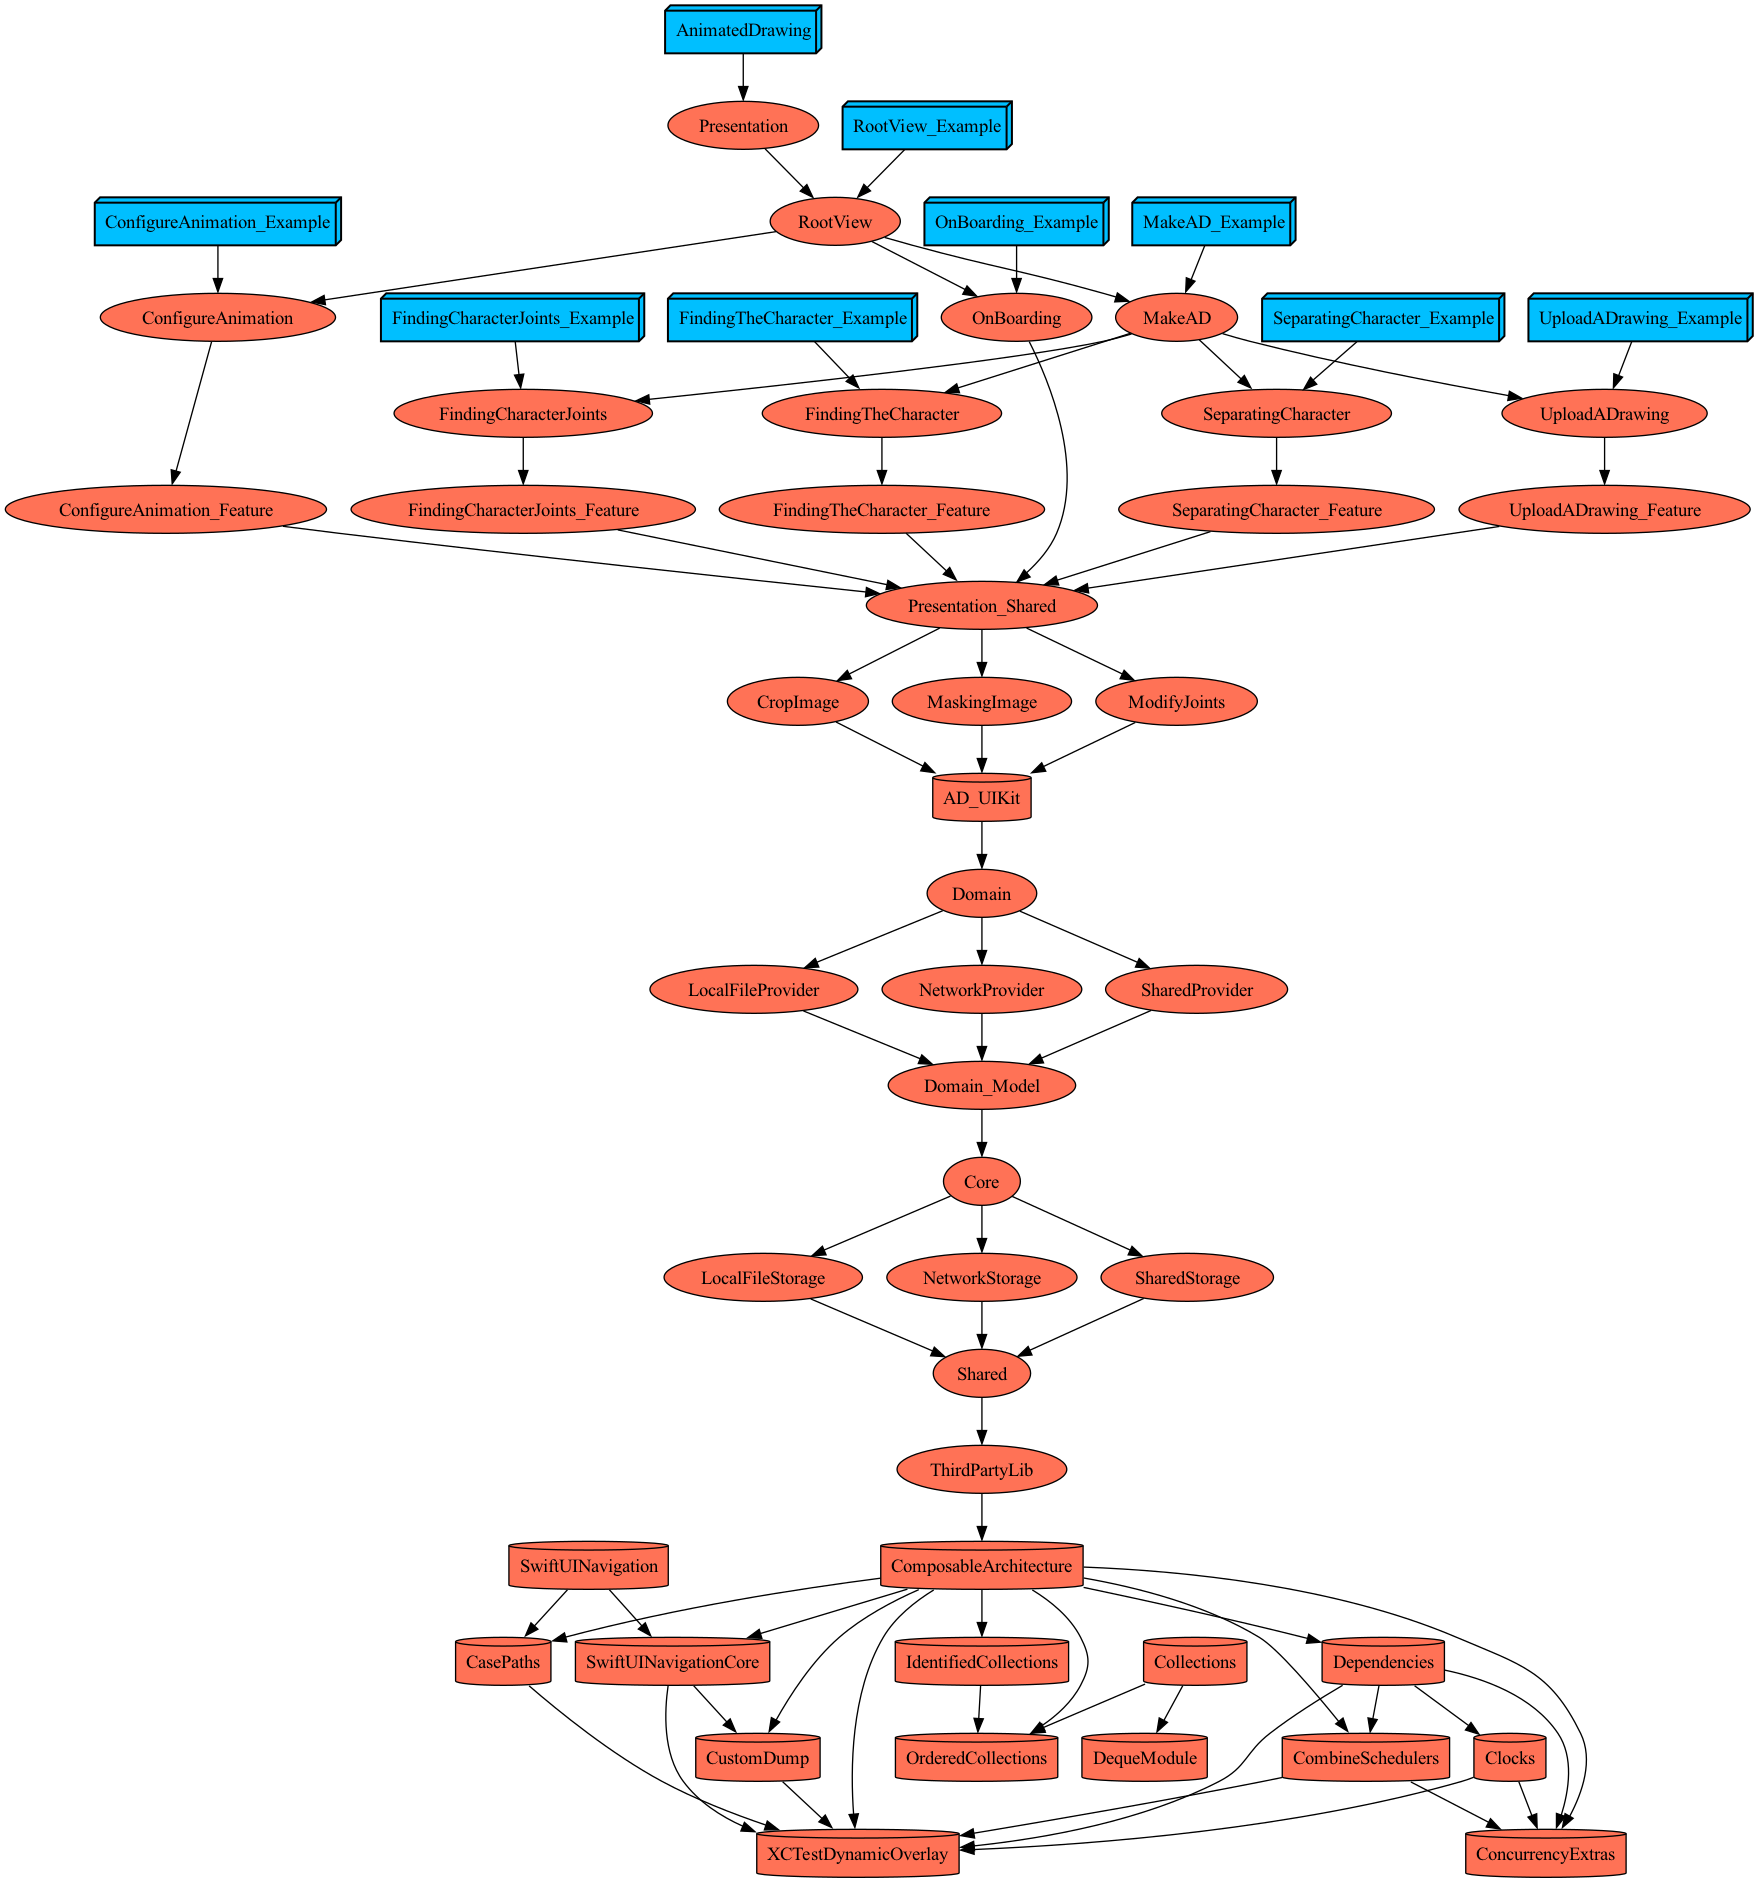
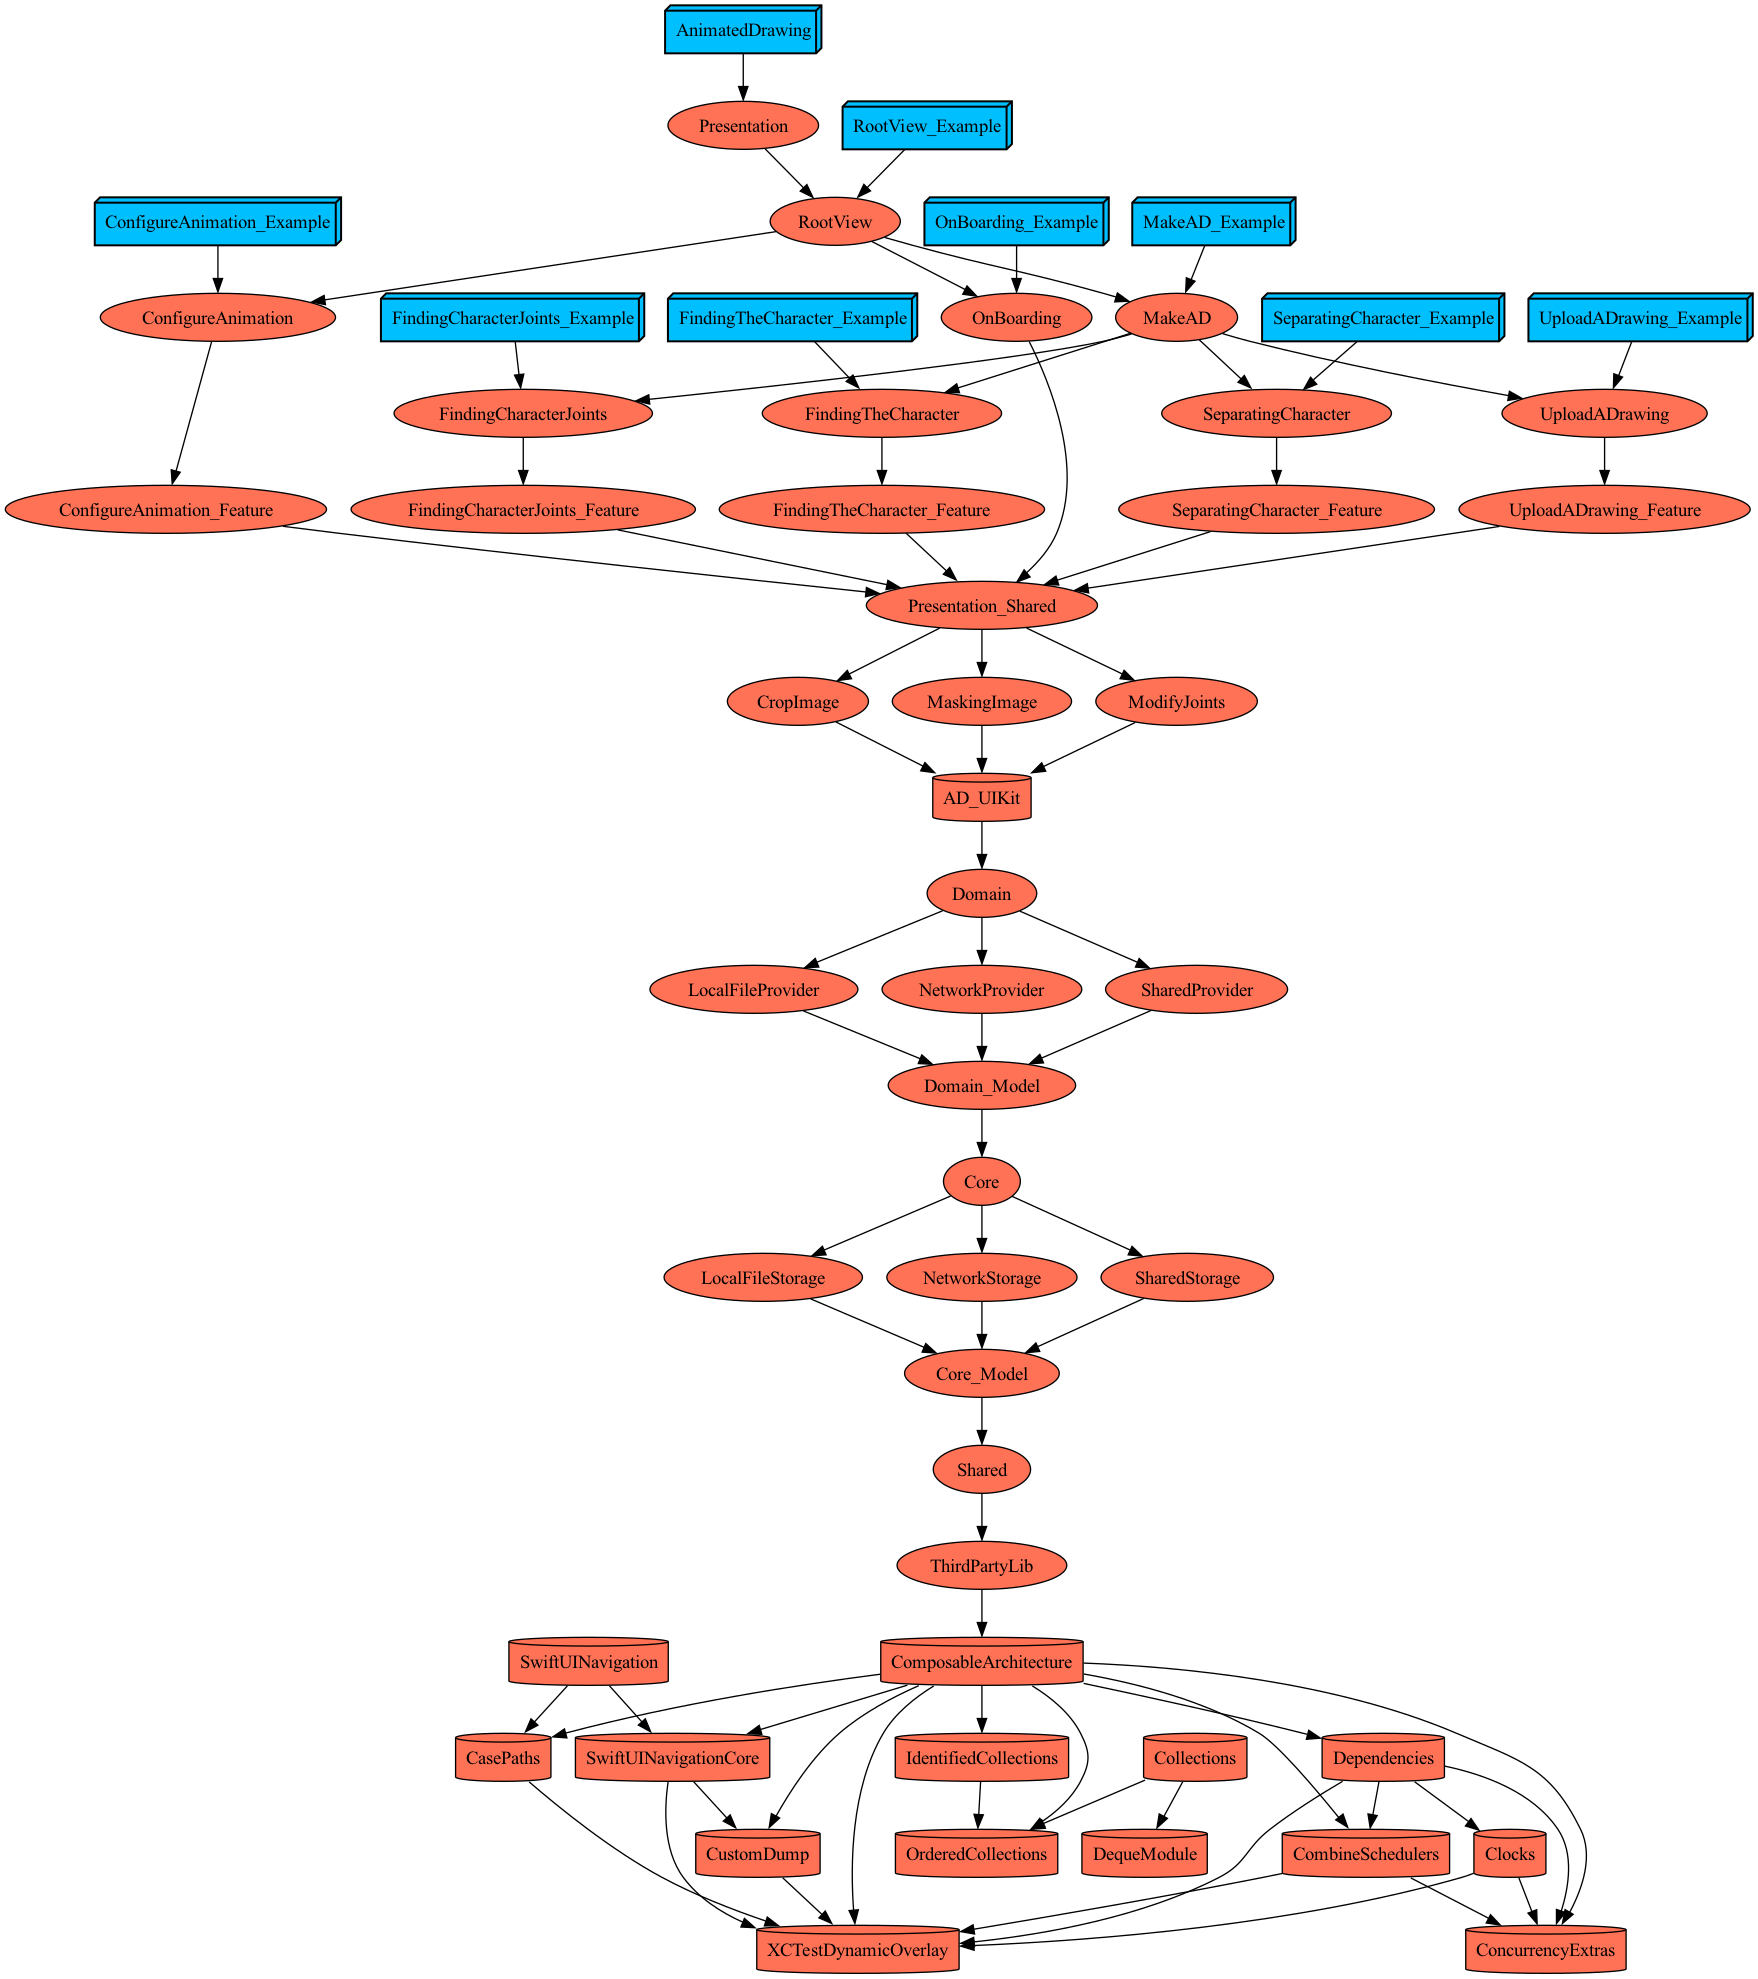
[Refactor] : Core_Model 모듈 추가
Git : #67

Changed region(s): [[0.0, 0.0, 1.0, 1.0]]

diff --git a/Projects/Domain/NetworkProvider/Sources/Provider/ConfigureAnimationProvider.swift b/Projects/Domain/NetworkProvider/Sources/Provider/ConfigureAnimationProvider.swift
@@ -10,6 +10,7 @@ import ThirdPartyLib
 import NetworkStorage
 import UIKit
 import Domain_Model
+//import Core_Model
 
 public struct ConfigureAnimationProvider {
   public var add: @Sendable (String, ADAnimation) async throws -> ()
@@ -24,7 +25,7 @@ extension ConfigureAnimationProvider: DependencyKey {
       let response = try await storage.add(
         request: AddAnimationRequest(
           ad_id: ad_id,
-          adAnimationDTO: ADAnimationDTO.init(name: adAnimation.rawValue)
+          adAnimationDTO: adAnimation.toDTO()
         )
       )
     },
@@ -33,7 +34,7 @@ extension ConfigureAnimationProvider: DependencyKey {
       let response = try await storage.download(
         request: DownloadAnimationRequest(
           ad_id: ad_id,
-          adAnimationDTO: ADAnimationDTO.init(name: adAnimation.rawValue)
+          adAnimationDTO: adAnimation.toDTO()
         )
       )
       

diff --git a/Projects/Core/Core_Model/Project.swift b/Projects/Core/Core_Model/Project.swift
@@ -2,22 +2,23 @@
 //  Project.swift
 //  Config
 //
-//  Created by minii on 2023/10/09.
+//  Created by minii on 2023/10/11.
 //
 
 import ProjectDescription
 import ProjectEnvironment
 
 let project: Project = .makeProject(
-  name: NetworkStorage.projectName,
+  name: Core_Model.projectName,
   targets: [
     .makeTarget(
-      targetName: NetworkStorage.targetName,
+      targetName: Core_Model.targetName,
       product: .staticLibrary,
       resources: nil,
       dependencies: [
-        Core_Model.projectDepedency
+        Shared.projectDepedency
       ]
     )
   ]
 )
+

diff --git a/Projects/Domain/Domain_Model/Sources/TypeChange/CGRect_BoundingBoxDTO.swift b/Projects/Domain/Domain_Model/Sources/TypeChange/CGRect_BoundingBoxDTO.swift
@@ -6,7 +6,7 @@
 //  Copyright © 2023 chminipark. All rights reserved.
 //
 
-import NetworkStorage
+import Core_Model
 import UIKit
 
 public extension BoundingBoxDTO {
@@ -15,7 +15,7 @@ public extension BoundingBoxDTO {
     let y: CGFloat = CGFloat(top)
     let width: CGFloat = (right - left) < 0 ? 0 : CGFloat(right - left)
     let height: CGFloat = (bottom - top) < 0 ? 0 : CGFloat(bottom - top)
-    
+
     return CGRect(x: x, y: y, width: width, height: height)
   }
 }

diff --git a/Plugins/ProjectEnvironment/ProjectDescriptionHelpers/ADModules/Core/Core_Model.swift b/Plugins/ProjectEnvironment/ProjectDescriptionHelpers/ADModules/Core/Core_Model.swift
@@ -1,0 +1,14 @@
+//
+//  Core_Model.swift
+//  ProjectEnvironment
+//
+//  Created by minii on 2023/10/11.
+//
+
+import Foundation
+
+public struct Core_Model: Module {
+  public static var projectName: String = "Core_Model"
+  public static var targetName: String = "Core_Model"
+  public static var prefixPathString: String = Core.prefixPathString
+}

diff --git a/Projects/Domain/Domain_Model/Sources/TypeChange/ADAnimation_ADAnimationDTO.swift b/Projects/Domain/Domain_Model/Sources/TypeChange/ADAnimation_ADAnimationDTO.swift
@@ -1,0 +1,15 @@
+//
+//  ADAnimation_ADAnimationDTO.swift
+//  Domain_Model
+//
+//  Created by minii on 2023/10/11.
+//  Copyright © 2023 chminipark. All rights reserved.
+//
+
+import Core_Model
+
+public extension ADAnimation {
+  func toDTO() -> ADAnimationDTO {
+    ADAnimationDTO(name: self.rawValue)
+  }
+}

diff --git a/Projects/Core/LocalFileStorage/Project.swift b/Projects/Core/LocalFileStorage/Project.swift
@@ -16,7 +16,7 @@ let project: Project = .makeProject(
       product: .staticLibrary,
       resources: nil,
       dependencies: [
-        Shared.projectDepedency
+        Core_Model.projectDepedency
       ]
     )
   ]

diff --git a/Projects/Core/SharedStorage/Project.swift b/Projects/Core/SharedStorage/Project.swift
@@ -16,7 +16,7 @@ let project: Project = .makeProject(
       product: .staticLibrary,
       resources: nil,
       dependencies: [
-        Shared.projectDepedency
+        Core_Model.projectDepedency
       ]
     )
   ]

diff --git a/Projects/Core/NetworkStorage/Sources/Interface/Model/Request&Response/MakeAD/SeparateCharacter/SeparateCharacterReponse.swift b/Projects/Core/NetworkStorage/Sources/Interface/Model/Request&Response/MakeAD/SeparateCharacter/SeparateCharacterReponse.swift
@@ -7,6 +7,7 @@
 //
 
 import Foundation
+import Core_Model
 
 public struct SeparateCharacterReponse: Responsable {
   public let jointsDTO: JointsDTO

diff --git a/Projects/Domain/Domain_Model/Sources/TypeChange/Joints_JointsDTO.swift b/Projects/Domain/Domain_Model/Sources/TypeChange/Joints_JointsDTO.swift
@@ -7,7 +7,7 @@
 //
 
 import Foundation
-import NetworkStorage
+import Core_Model
 
 public extension JointsDTO {
   func toDomain() -> Joints {

diff --git a/Projects/Core/NetworkStorage/Sources/Interface/Model/Request&Response/MakeAD/UploadADrawing/UploadADrawingResposne.swift b/Projects/Core/NetworkStorage/Sources/Interface/Model/Request&Response/MakeAD/UploadADrawing/UploadADrawingResposne.swift
@@ -7,6 +7,7 @@
 //
 
 import Foundation
+import Core_Model
 
 public struct UploadADrawingResponse: Responsable {
   public let ad_id: String

diff --git a/Projects/Core/NetworkStorage/Sources/Interface/Model/Request&Response/MakeAD/FindCharacterJoints/FindCharacterJointsRequest.swift b/Projects/Core/NetworkStorage/Sources/Interface/Model/Request&Response/MakeAD/FindCharacterJoints/FindCharacterJointsRequest.swift
@@ -7,6 +7,7 @@
 //
 
 import Foundation
+import Core_Model
 
 public struct FindCharacterJointsRequest {
   public let ad_id: String

diff --git a/Projects/Core/NetworkStorage/Sources/Interface/Model/Request&Response/ConfigureAnimation/DownloadAnimationRequest.swift b/Projects/Core/NetworkStorage/Sources/Interface/Model/Request&Response/ConfigureAnimation/DownloadAnimationRequest.swift
@@ -7,6 +7,7 @@
 //
 
 import Foundation
+import Core_Model
 
 public struct DownloadAnimationRequest {
   public let ad_id: String
